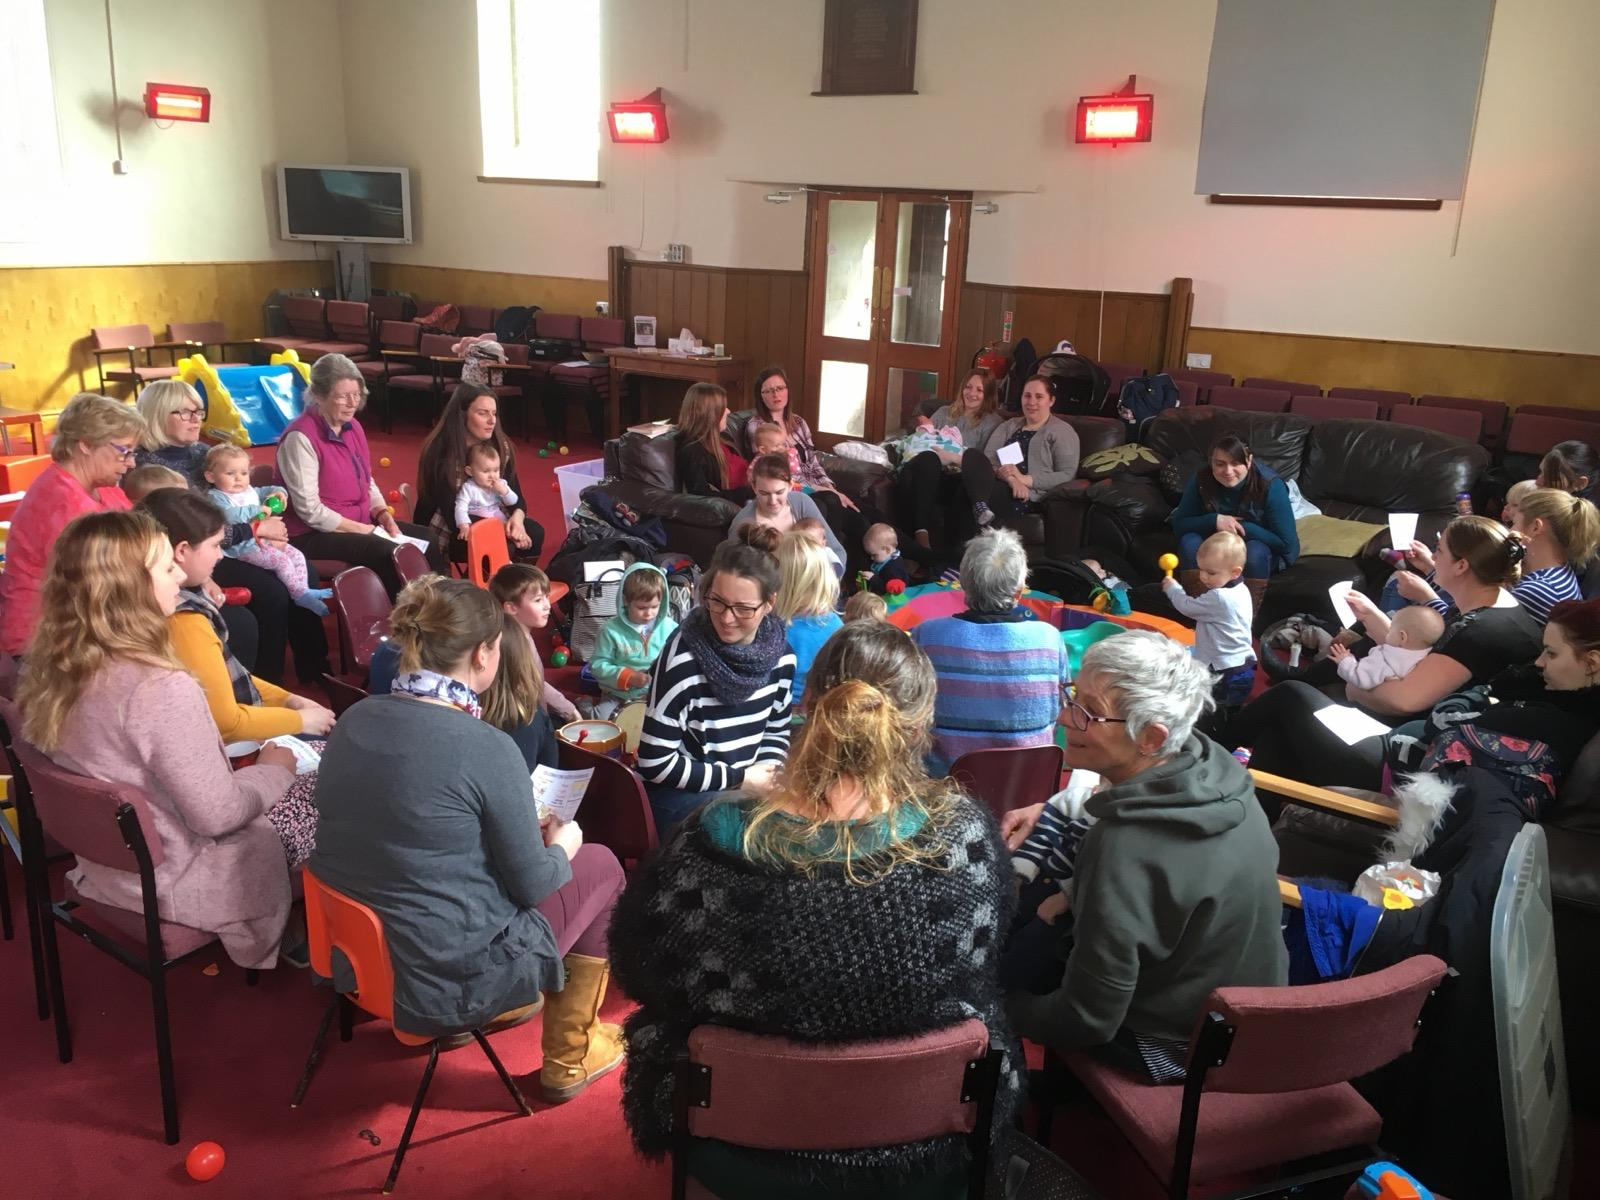
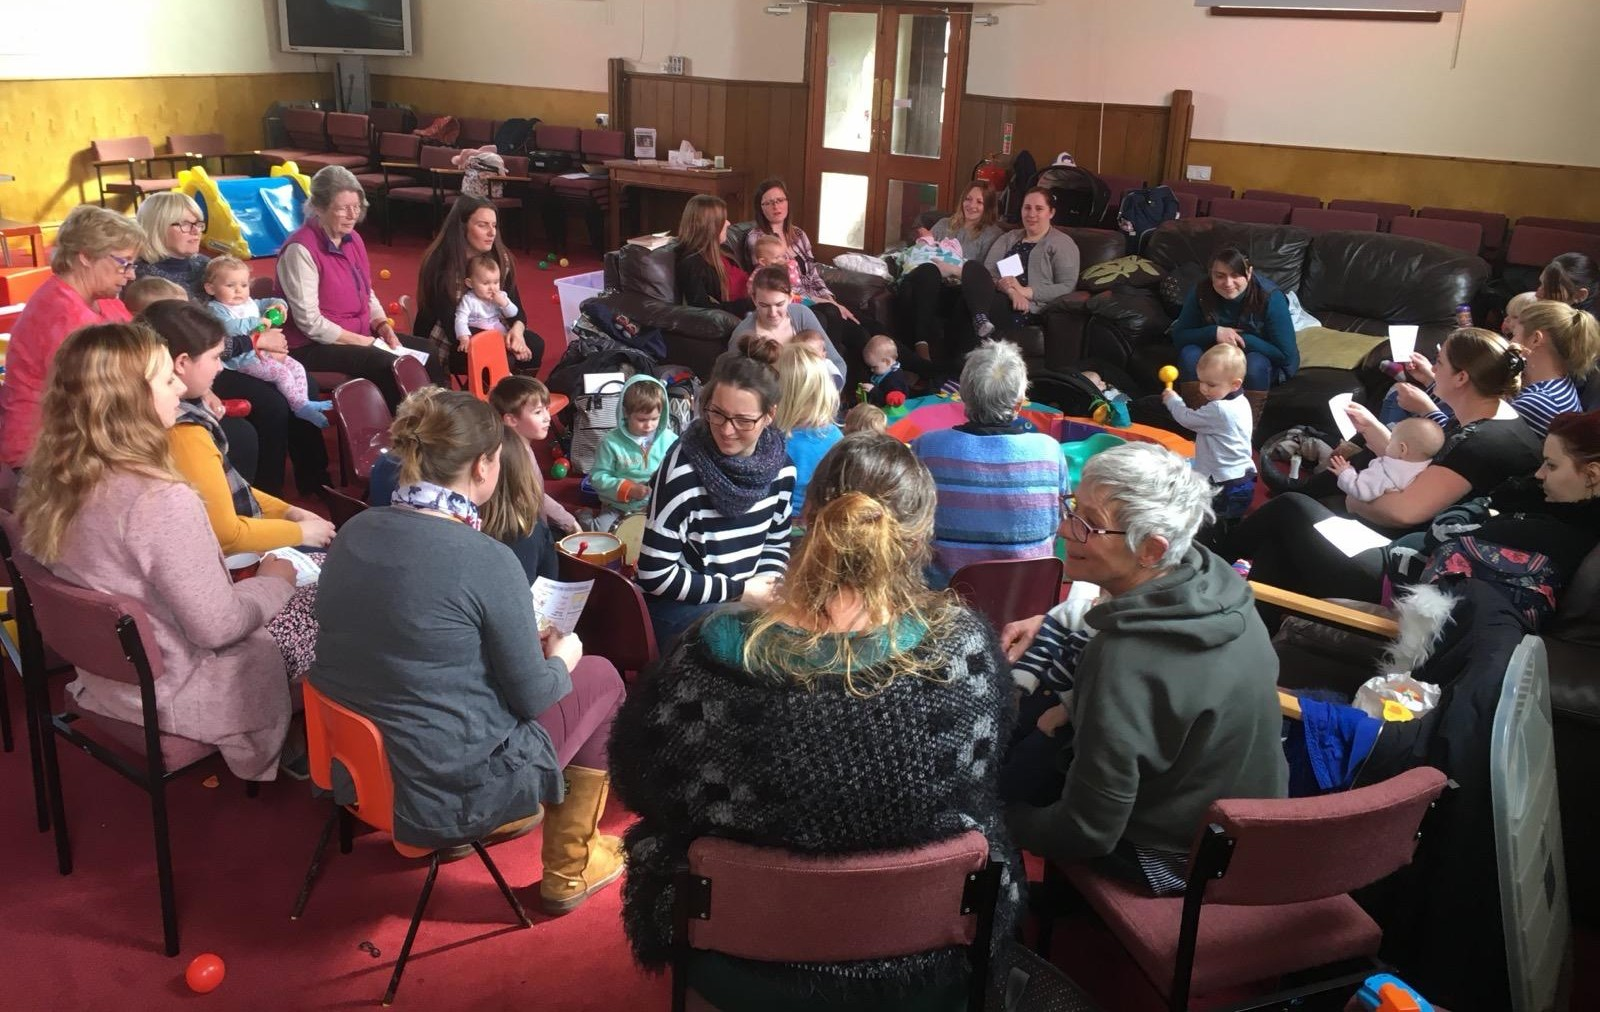
corrections to toddler restart

diff --git a/src/App.jsx b/src/App.jsx
@@ -47,7 +47,7 @@ function App() {
           <img
             className="coming-up__image"
             src={toddlersRestart}
-            alt="Toddlers restarts 4th Sept"
+            alt="Toddlers restarts 8th Sept"
           />
         </div>
       </section>
@@ -79,8 +79,7 @@ function App() {
 
         <h2 className="section-heading">Forest Beacon Sparks</h2>
         <p className="home-content__text">
-          Our toddler group meets on a Tuesday morning every week from 9:30 -
-          11:00 AM.
+          Our toddler group meets on a Tuesday morning from 9:30-11:00 AM during the school term.
         </p>
         <img
           className="content-image"
@@ -112,7 +111,7 @@ function App() {
 
         <section id="news" className="panel">
         <h2 className="section-heading">News</h2>
-        <p className="home-content__text">Toddlers Restarts 4th September.</p>
+        <p className="home-content__text">Toddlers restarts 8th September.</p>
         <p className="home-content__text">
           Next service 6th September - we have Tim Welch from the YMCA joining
           us.
